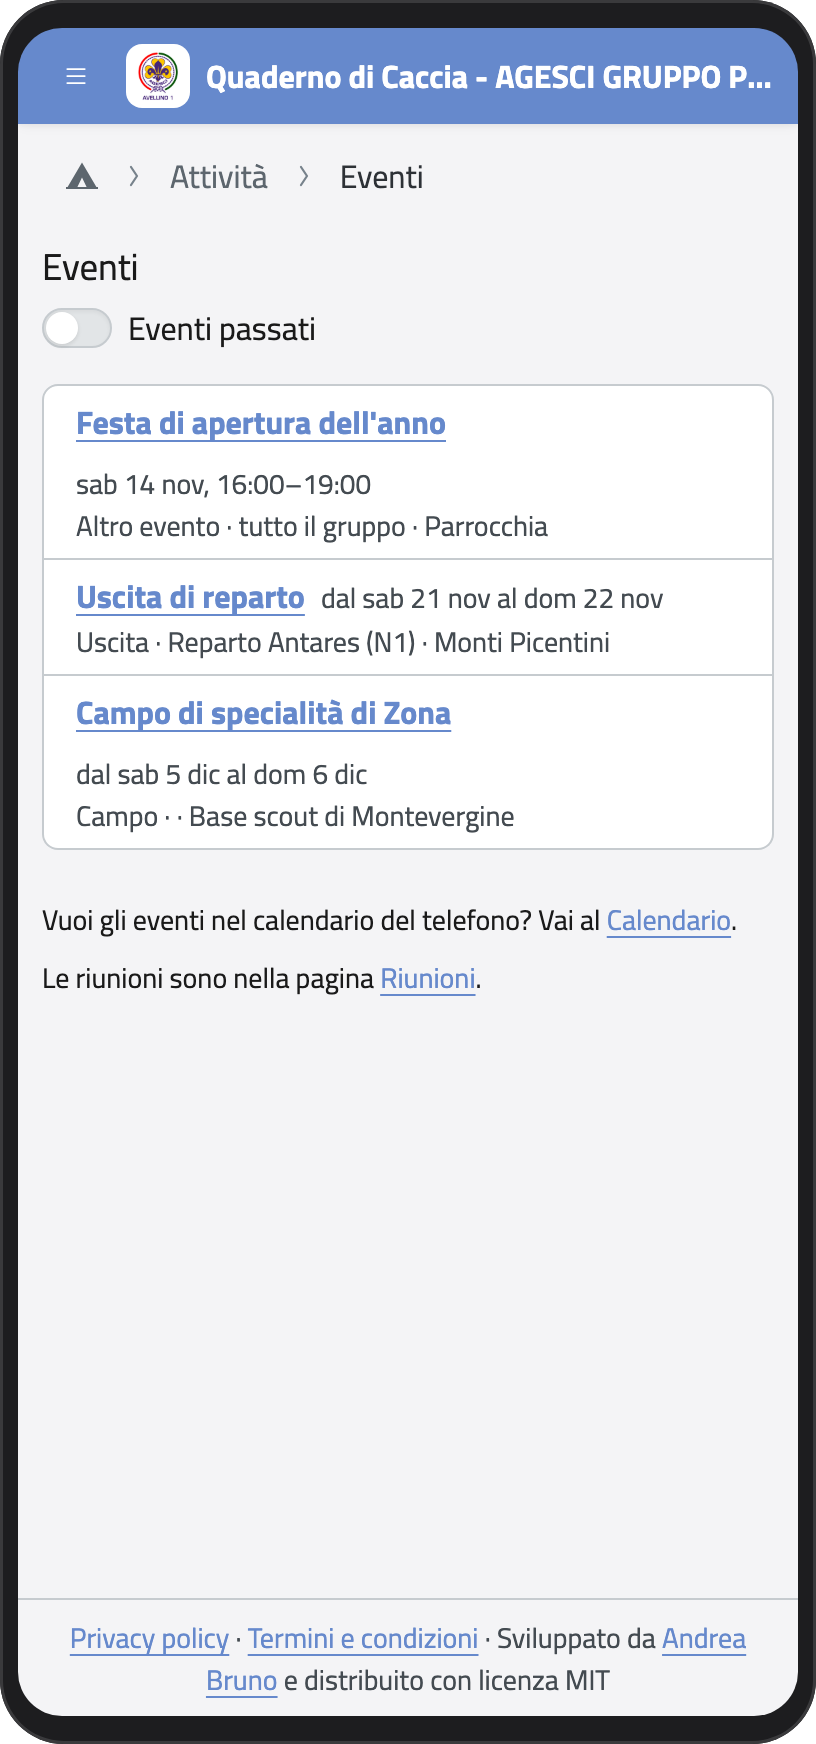
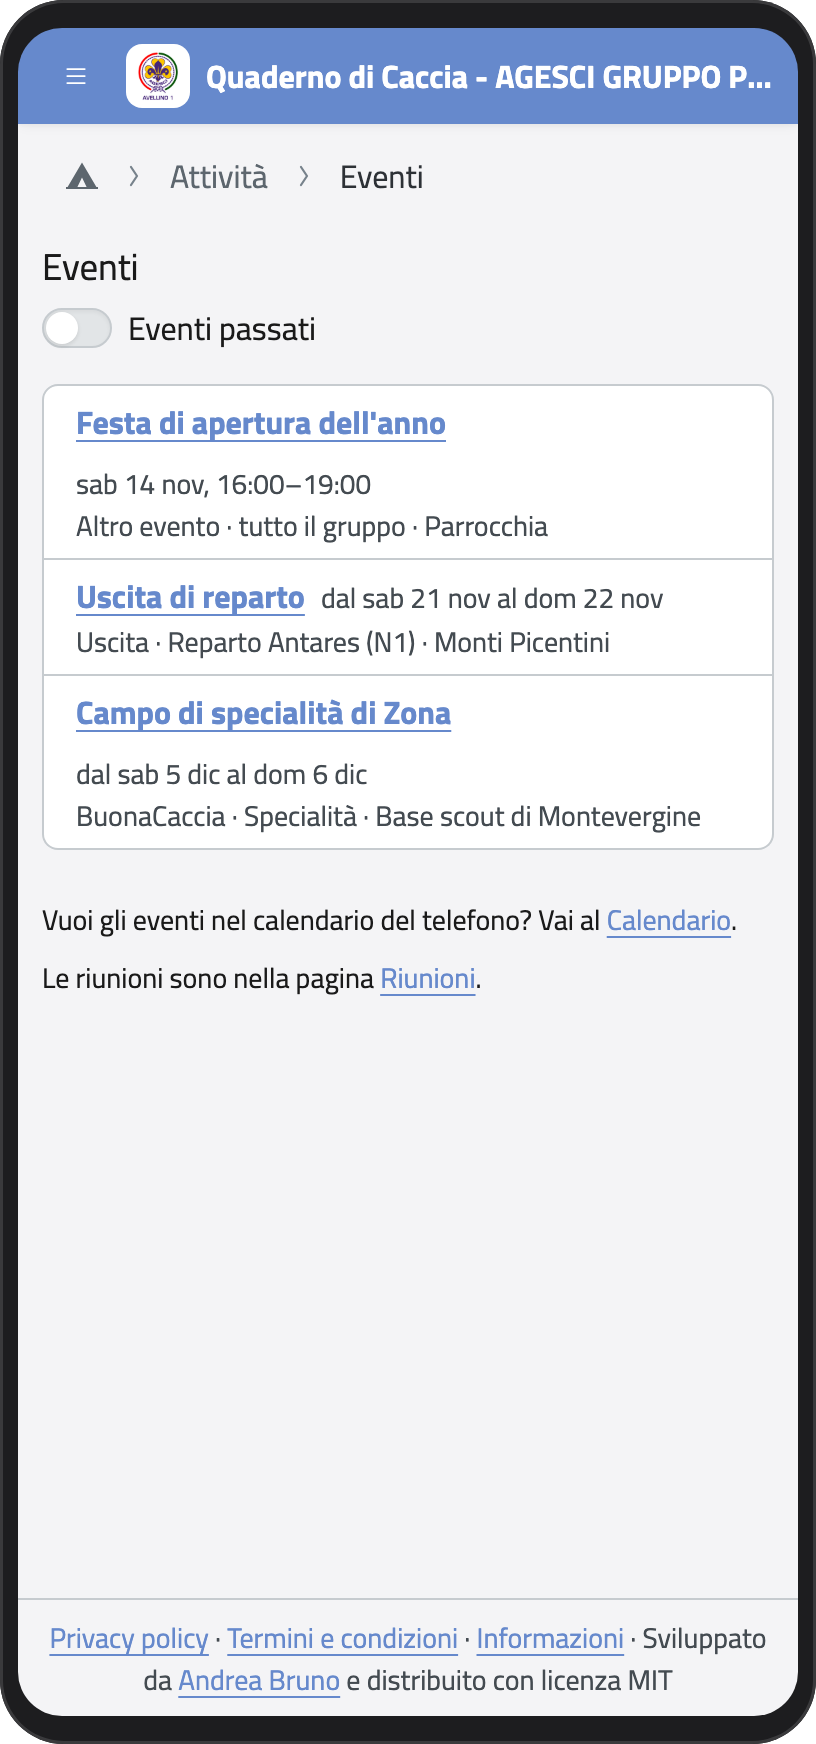
Version 1.27.1
Claude-Session: https://claude.ai/code/session_01FnZgpbkydComDqid7zBVs7

Changed region(s): [[0.0613, 0.9289, 0.9191, 0.9908], [0.0919, 0.4644, 0.8578, 0.4954]]

diff --git a/CHANGELOG.md b/CHANGELOG.md
@@ -5,6 +5,26 @@ versione installata e quella nuova prima di chiedere se aggiornare. Il dettaglio
 versione, con il manuale in PDF, è nella pagina
 [Releases](https://github.com/AGESCI-Avellino-1/quaderno-di-caccia/releases).
 
+## 1.27.1 — 7 novembre 2026
+
+### Correzioni
+
+**Eventi su BuonaCaccia nell'elenco degli eventi** ([#64](https://github.com/AGESCI-Avellino-1/quaderno-di-caccia/issues/64)): sotto il nome compariva «Campo · · Località», con una parte vuota tra due punti. Ora c'è scritto «BuonaCaccia», il tipo di evento e la località, per esempio «BuonaCaccia · Capi Squadriglia · Atripalda».
+
+### Aggiornare
+
+```bash
+scripts/aggiorna.sh v1.27.1
+```
+
+Nessuna migrazione del database.
+
+### Documentazione
+
+Rifatta la schermata dell'elenco degli eventi.
+
+Provata con i test e in un browser con dati inventati; non ancora su un telefono vero. Se qualcosa non va, segnalalo con una issue.
+
 ## 1.27.0 — 7 novembre 2026
 
 ### Novità

diff --git a/docs/installazione/installazione.md b/docs/installazione/installazione.md
@@ -5,12 +5,12 @@
 ```bash
 git clone https://github.com/AGESCI-Avellino-1/quaderno-di-caccia.git /srv/qdc
 cd /srv/qdc
-git checkout v1.27.0
+git checkout v1.27.1
 ```
 
 Installa sempre una **versione rilasciata**: le trovi, con il PDF del manuale d'uso, nella
 pagina [Releases](https://github.com/AGESCI-Avellino-1/quaderno-di-caccia/releases) del
-progetto; al posto di `v1.27.0` metti l'ultima. Il ramo `main` è quello di sviluppo e può
+progetto; al posto di `v1.27.1` metti l'ultima. Il ramo `main` è quello di sviluppo e può
 contenere lavori non ancora provati.
 
 Negli esempi l'installazione è in `/srv/qdc`: se scegli un'altra cartella, cambiala anche

diff --git a/TODO.md b/TODO.md
@@ -2,7 +2,7 @@
 
 Situazione delle [issue](https://github.com/AGESCI-Avellino-1/quaderno-di-caccia/issues) e delle
 [segnalazioni di sicurezza](https://github.com/AGESCI-Avellino-1/quaderno-di-caccia/security/advisories)
-su GitHub, aggiornata il 07/11/2026 (ultima versione: v1.27.0). Le cose ancora aperte del periodo di
+su GitHub, aggiornata il 07/11/2026 (ultima versione: v1.27.1). Le cose ancora aperte del periodo di
 sviluppo sono in [TODO_SVILUPPO.md](TODO_SVILUPPO.md).
 
 ## Aperte
